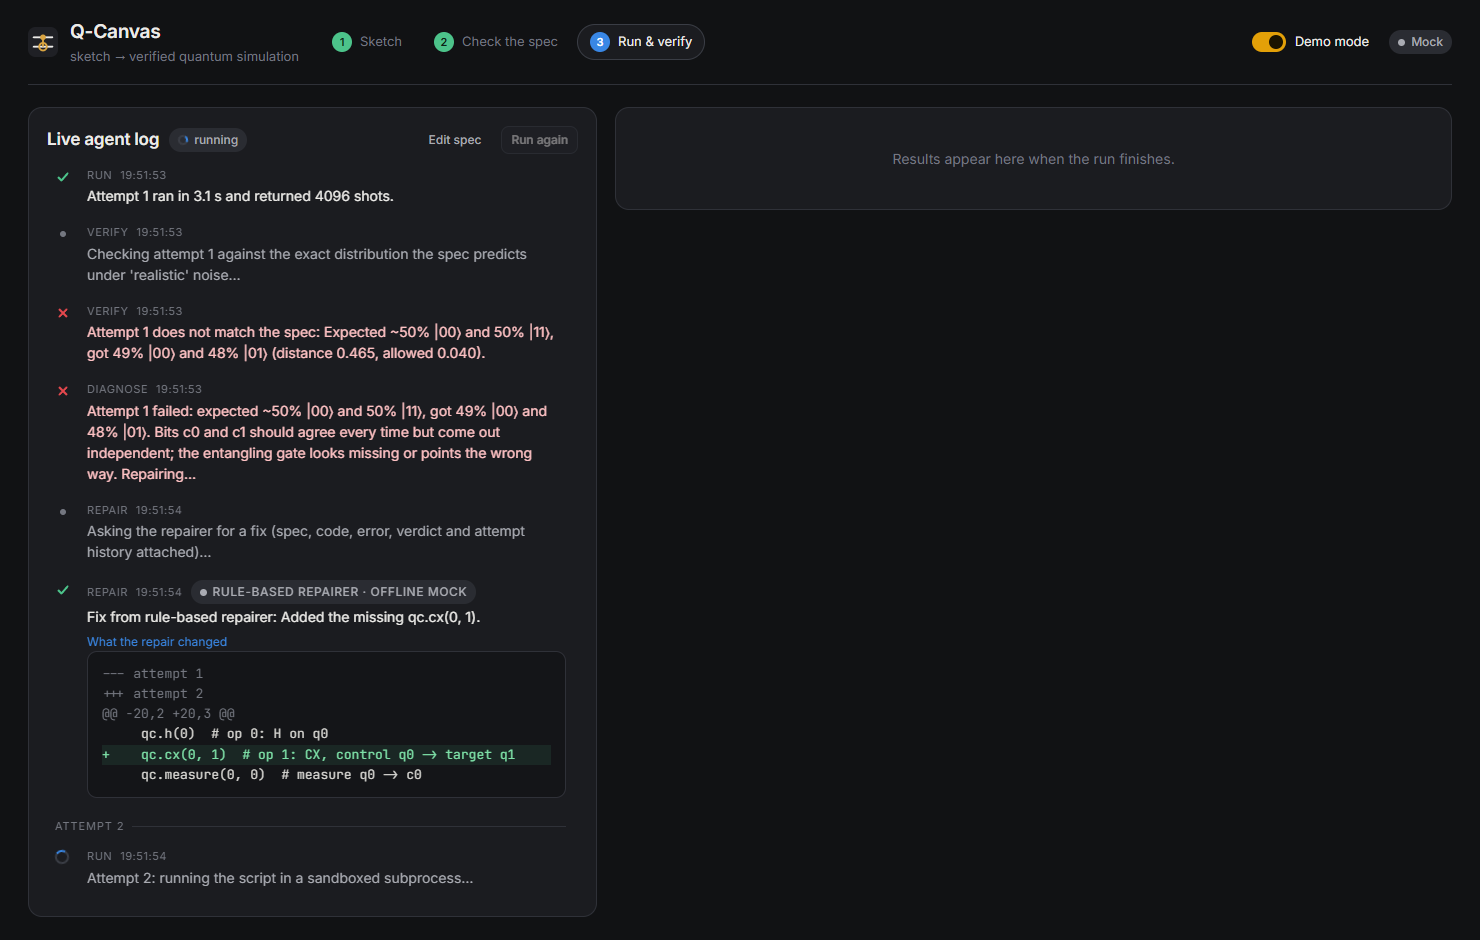
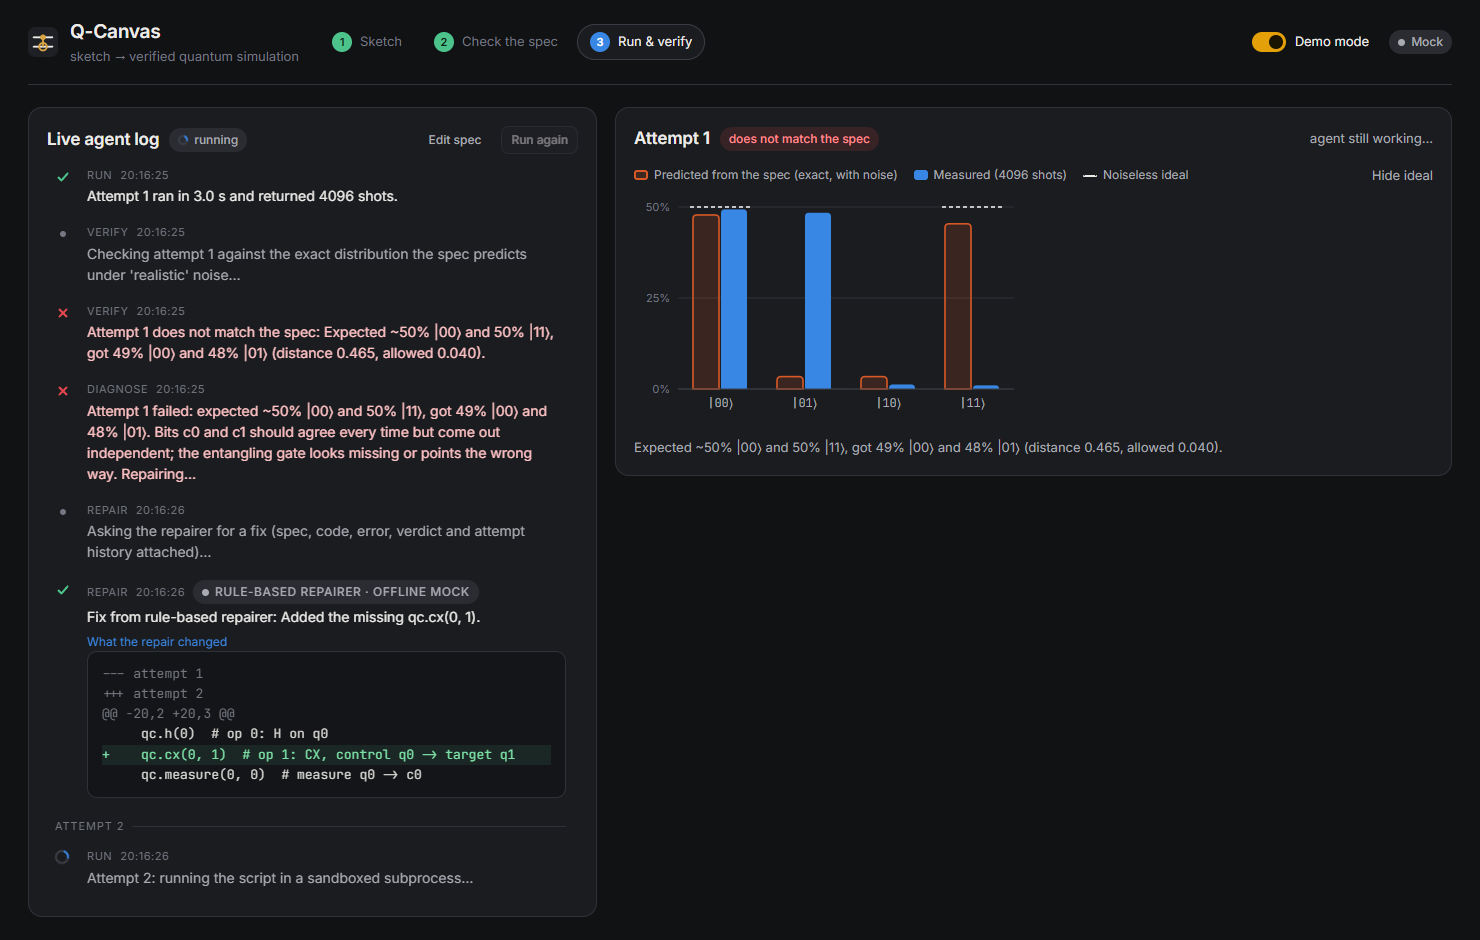
Refresh screenshots and demo GIF

diff --git a/README.md b/README.md
@@ -170,7 +170,7 @@ The badge at the top right shows **Meta live**, **Mock**, or **Meta (no key: moc
 a planted bug and prints the live log. `scripts/demo.sh examples/specs/network_fiber_chain.json`
 runs the network agent.
 
-**Tests:** `cd backend && ../.venv/Scripts/python -m pytest -q` (115 tests,
+**Tests:** `cd backend && ../.venv/Scripts/python -m pytest -q` (116 tests,
 about 2 minutes, all offline). `pytest -m live` makes one cheap real call per
 Meta model (skipped without a key; cached after the first run).
 
